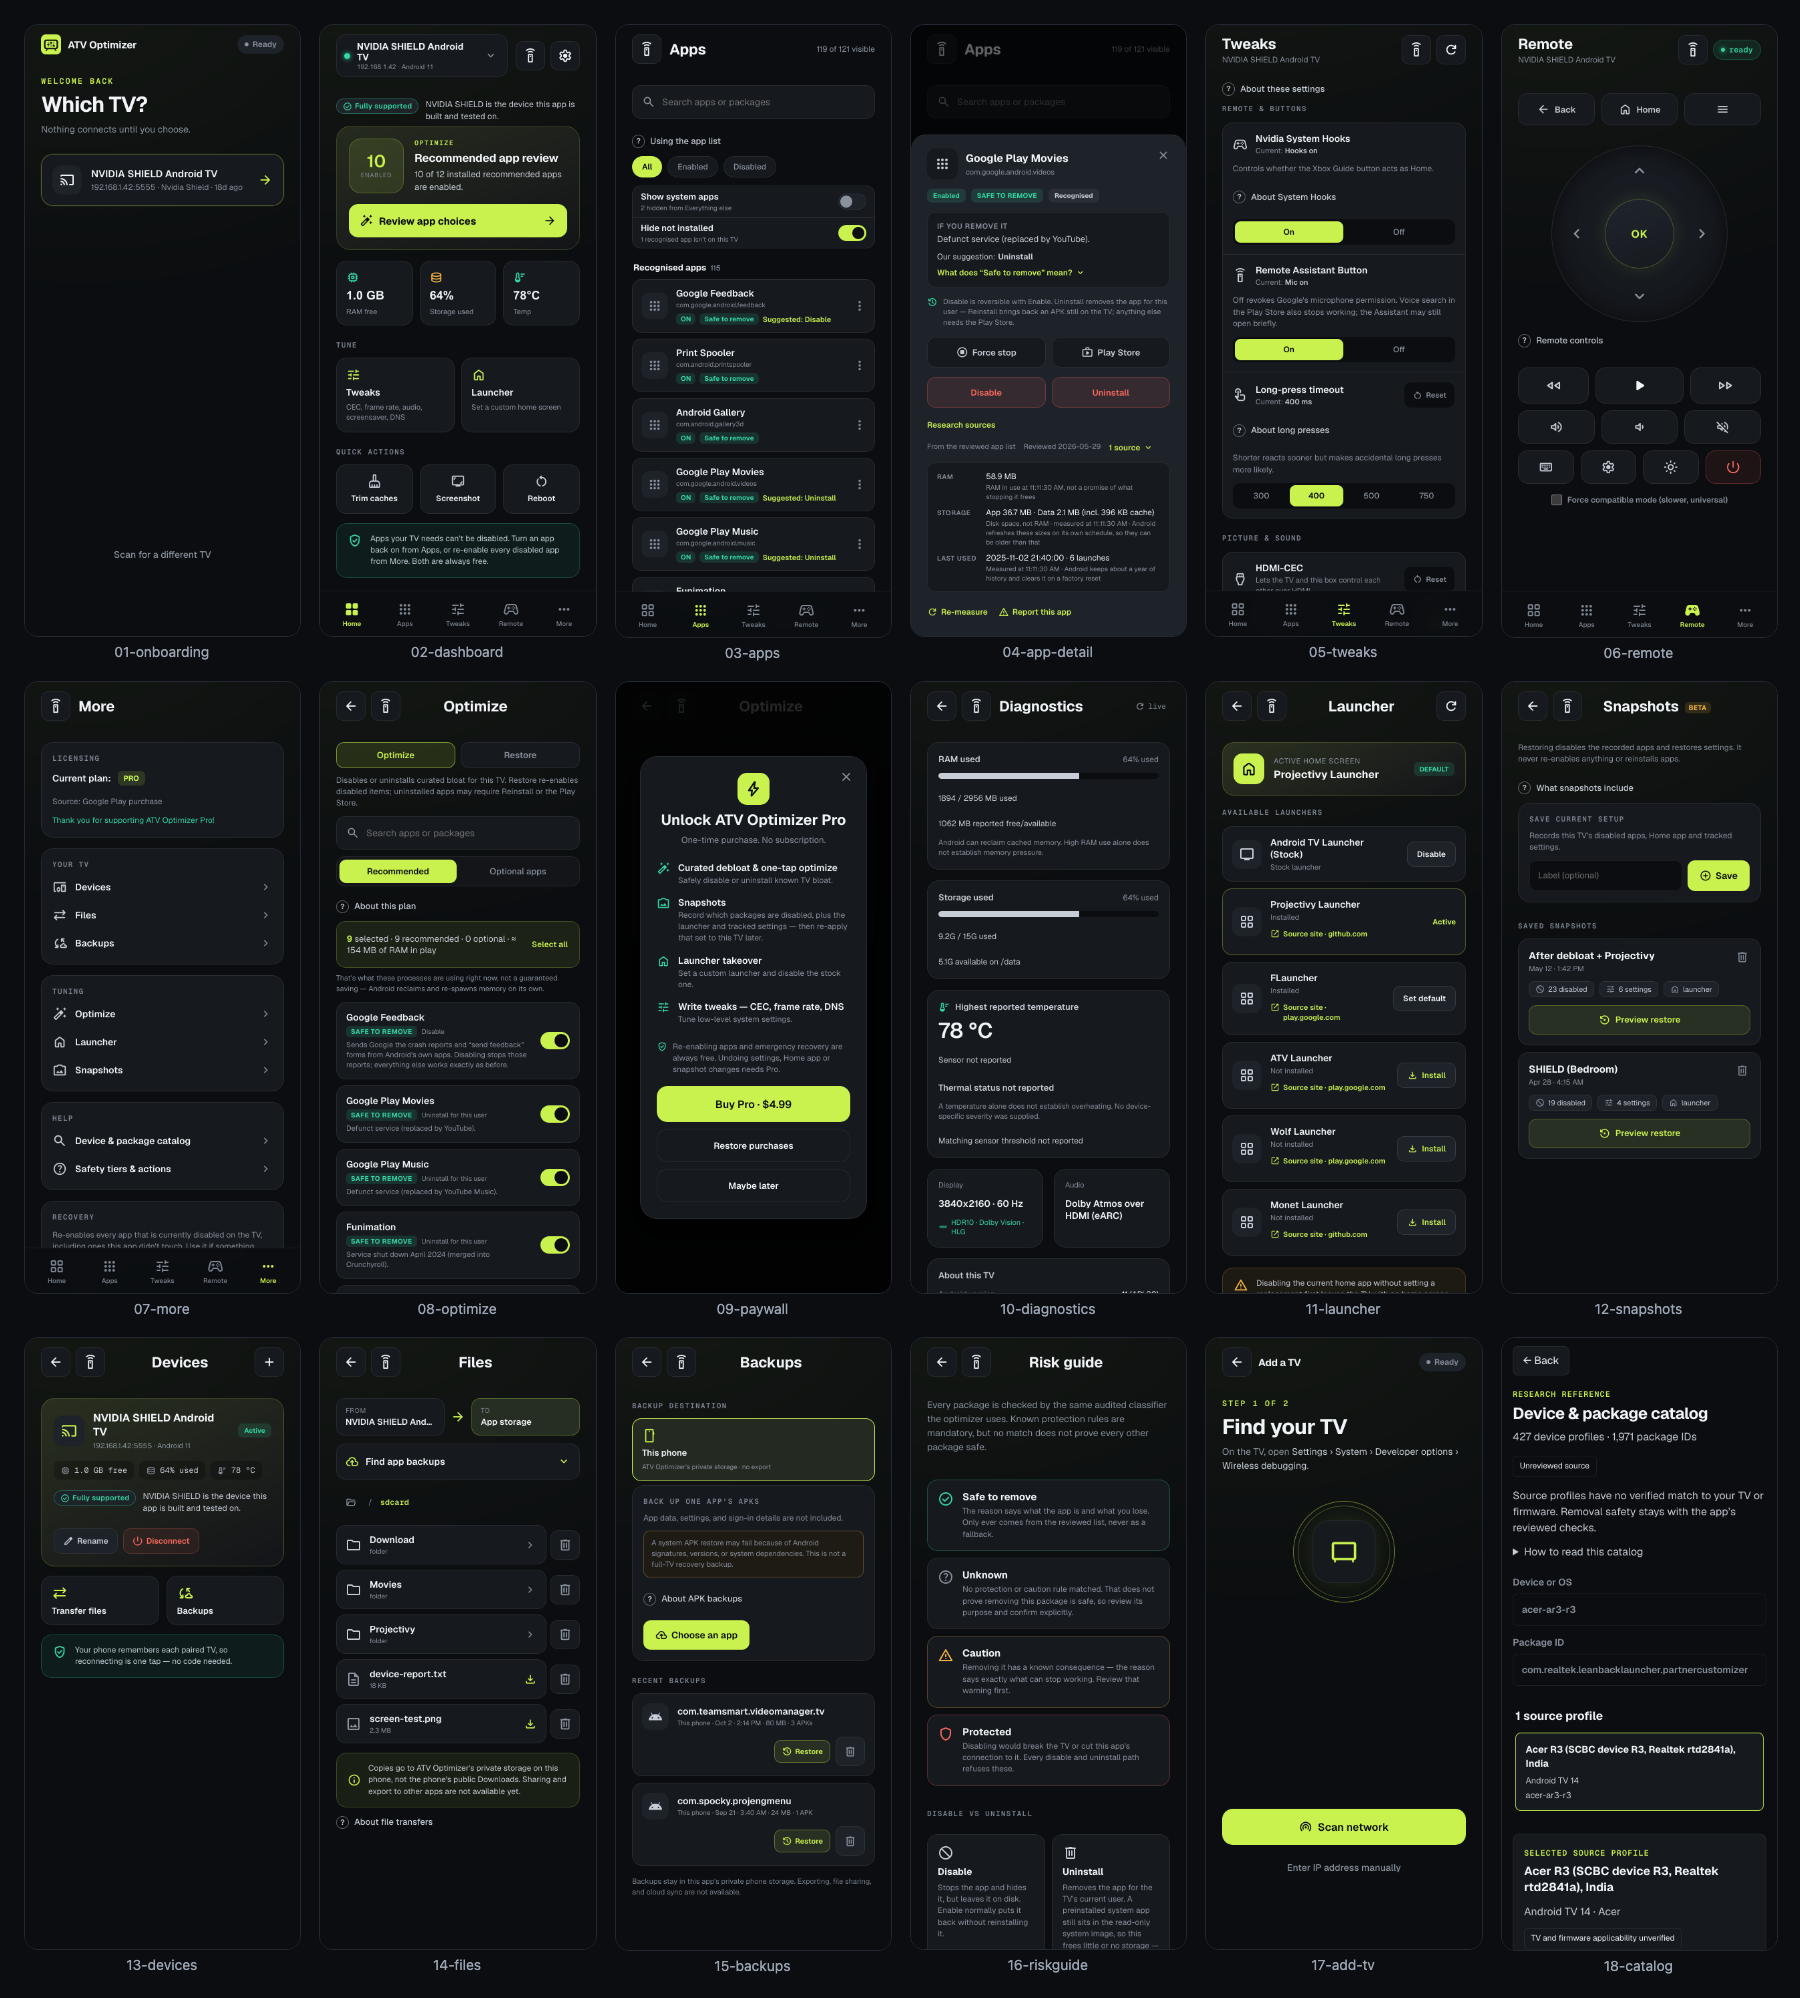
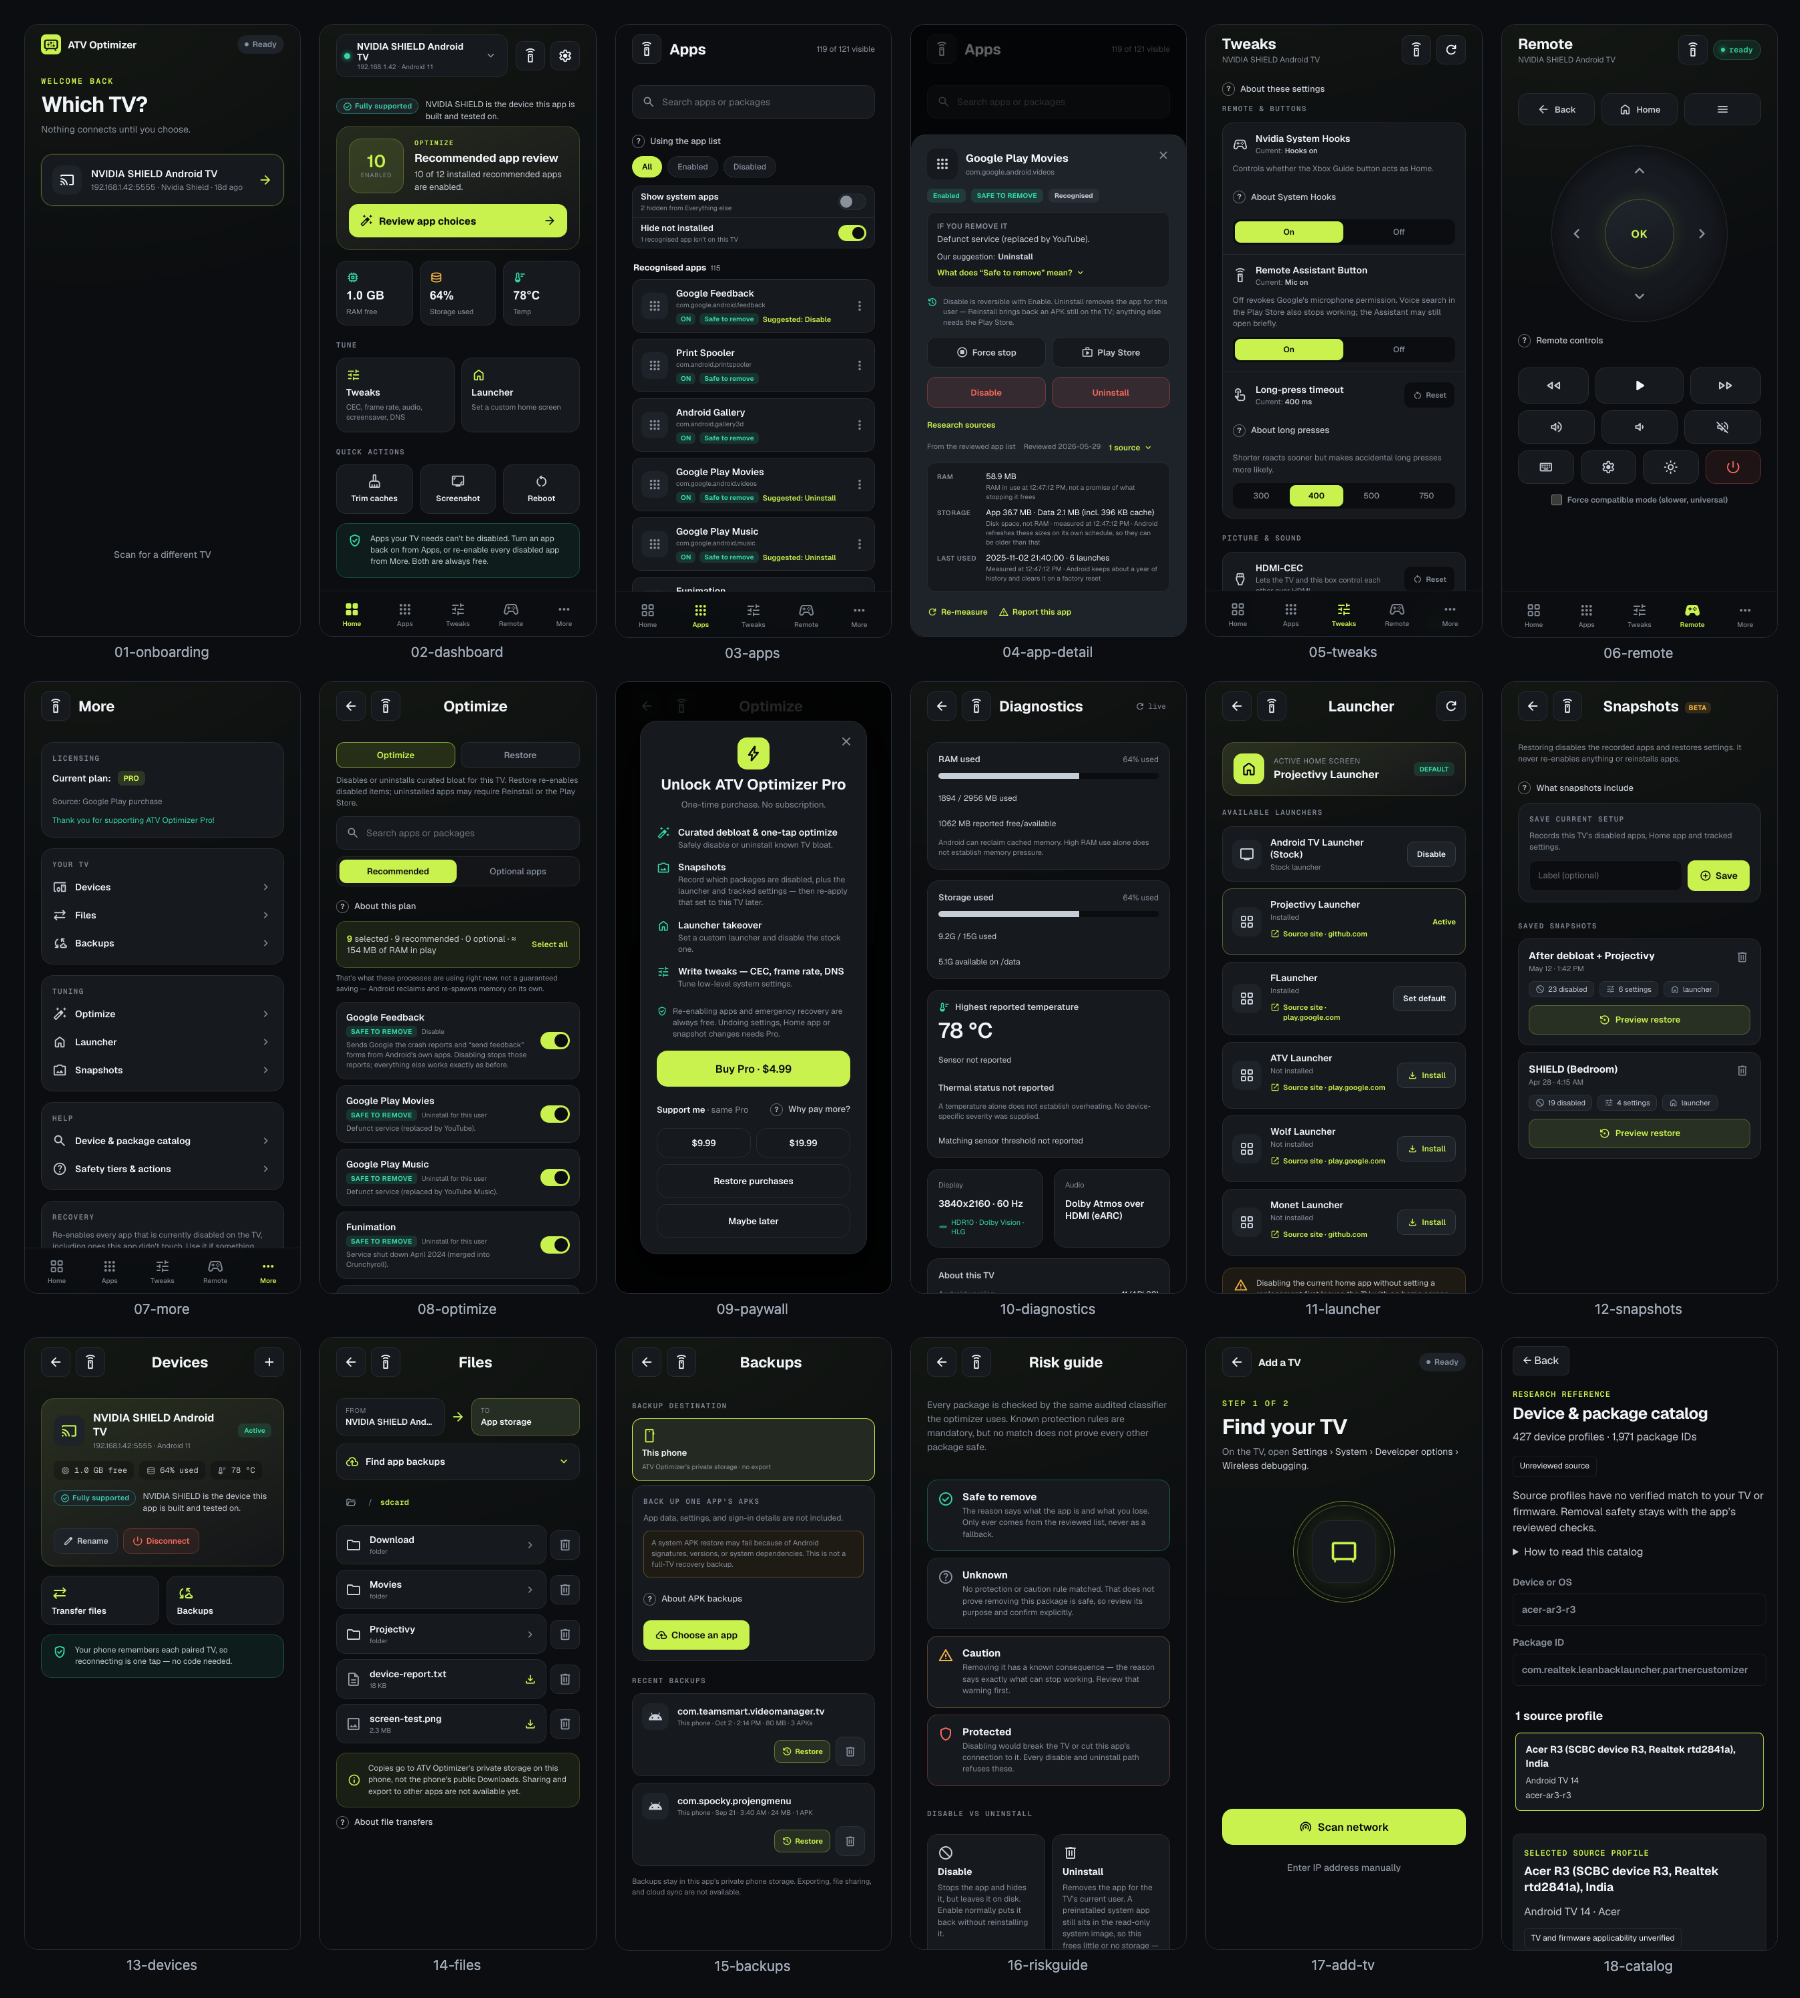
Cover the Support me tiers in the paywall layout test and refresh the phone screenshots

Changed region(s): [[0.3422, 0.3413, 0.4978, 0.6517]]

diff --git a/v2/mobile/src/components/SupportTiers.svelte b/v2/mobile/src/components/SupportTiers.svelte
@@ -17,7 +17,7 @@
   <div class="support-tiers">
     <div class="support-head">
       <span class="support-label">Support me <span class="support-note">· same Pro</span></span>
-      <HelpSheet title="About support prices">
+      <HelpSheet title="Why pay more?">
         <p class="support-help">
           These unlock exactly the same Pro as Buy Pro, nothing extra. The higher price is a way to
           help keep ATV Optimizer developed. Buy only one: any of them unlocks Pro for good.
